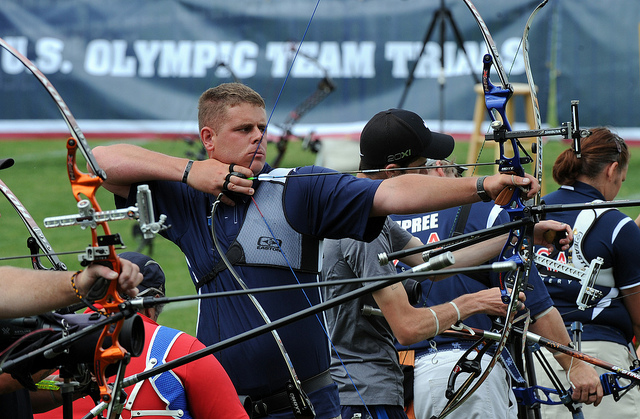
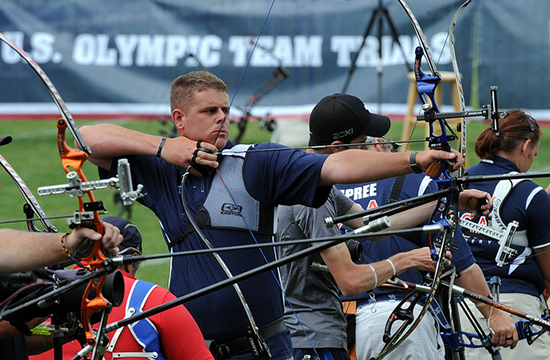
add flex boxes

diff --git a/index.html b/index.html
@@ -25,37 +25,40 @@
       <a href="#">Instructors</a>
       <a href="#">About</a>
     </nav>
-<!-- <div class="container"> -->
-  <div class="flex-container">
-    <div class="column01">
-      <article class="specials">
-        <h3>Special Deals</h3>
-        <p>For first time students, buy 3 months of unlimited classes and receive one private lesson free.</p>
-        <p>Through April, two for one classes for kids on Mondays.</p>
-        <p>Limited scholarships available for kids willing to volunteer at STP fundraising events.</p>
-      </article>
+    <div class="flex-container">
+      <div class="specials">
+          <h3>Special Deals</h3>
+          <p>For first time students, buy 3 months of unlimited classes and receive one private lesson free.</p>
+          <p>Through April, two for one classes for kids on Mondays.</p>
+          <p>Limited scholarships available for kids willing to volunteer at STP fundraising events.</p>
 
-<div class="column02">
-  <img src="images/students-competing.jpg" alt="Students competing" width="640" height="419">
+      </div>
+        <div class="specials-image">
+          <img src="images/students-competing.jpg" alt="Students competing" height="300">
+        </div>
+      </div>
+      <div class="flex-container">
+<div class="news-image">
+  <img src="images/class1.jpg" alt="Kids class" height="300">
 
 </div>
-    </div>
+<div class="news">
 
-  </div>
-      <img src="images/class1.jpg" alt="Kids class" width="640" height="419">
-      <!-- <img src="images/class2.jpg" alt="Adult class" width="640" height="419"> -->
-    <aside class="news">
-      <h3>News</h3>
-      <p>Join us at the information session for this years trip to the Olympic trials in Boise. Saturday April 8th at 6pm.</p>
-      <p>STP wins the Tacoma best instructors in the annual Tacoma Family Sports extravagana.</p>
-      <p>New classes for summer term to include expanded field opportunities.</p>
-      <p>Got an idea for a new program? Come share with us at our leadership meeting. Tuesday April 18th at 6pm.</p>
-      <p>Get ready for the new STP shop! Planning under way for our new pro shop.</p>
-    </aside>
+  <aside class="news">
+    <h3>News</h3>
+    <p>Join us at the information session for this years trip to the Olympic trials in Boise. Saturday April 8th at 6pm.</p>
+    <p>STP wins the Tacoma best instructors in the annual Tacoma Family Sports extravagana.</p>
+    <p>New classes for summer term to include expanded field opportunities.</p>
+    <p>Got an idea for a new program? Come share with us at our leadership meeting. Tuesday April 18th at 6pm.</p>
+    <p>Get ready for the new STP shop! Planning under way for our new pro shop.</p>
+  </aside>
+</div>
+      </div>
+    </div>
     <footer>
       <a href="#">Nondiscriminatory Policy</a>
-      <a href="#">Jobs</a>
-      <a href="#">Support</a>
+      <a href="#">Volunteer</a>
+      <a href="#">Donate</a>
       <a href="#">Contact Us</a>
       <a href="#">Feedback</a>
       <a href="#">Privacy</a>

diff --git a/styles/styles.css b/styles/styles.css
@@ -8,7 +8,7 @@ body {
   }
 
 address {
-  margin-bottom: 1rem;
+  margin-left: inherit;
 }
 
 .business-name {
@@ -17,12 +17,13 @@ address {
   text-align: center;
   font-size: 4rem;
   padding: 3rem;
+  margin: inherit;
   }
 
 .business-logo {
   position: relative;
-  left: 5rem;
   top: 1.5rem;
+  margin: inherit;
 }
 
 a {
@@ -36,6 +37,7 @@ nav {
   display: flex;
   justify-content: space-around;
   padding: 1rem 1rem 1rem 1rem;
+  margin: 0 10rem 0 10rem;
   }
 
   nav a:hover {
@@ -54,14 +56,23 @@ p {
 
 .flex-container {
   display: flex;
+  margin: inherit;
+  }
+
+.specials {
+  padding: 1rem 1rem 1rem 0;
 }
 
-.column01 {
-  padding: 1rem 1rem 1rem 0rem;
+.specials-image {
+  padding: 1rem 0 0 2rem;
 }
 
-.column02 {
-  padding: 1rem 1rem 1rem 0rem;
+.news-image {
+padding-top: 2rem;
+}
+
+.news {
+  padding: 1rem 0 0 1rem;
 }
 
 .code-sample {
@@ -76,4 +87,5 @@ footer {
   display: flex;
   justify-content: space-around;
   padding: .5rem .5rem .5rem .5rem;
+  margin: inherit;
 }
